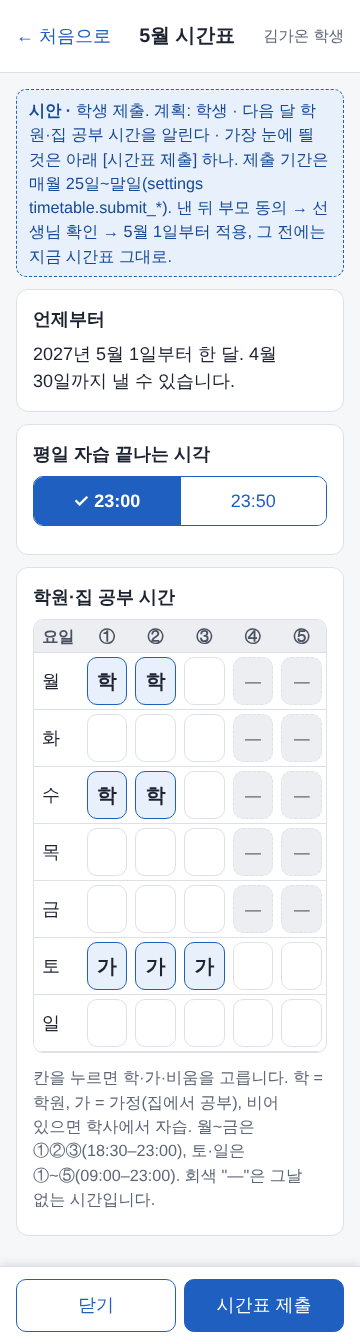
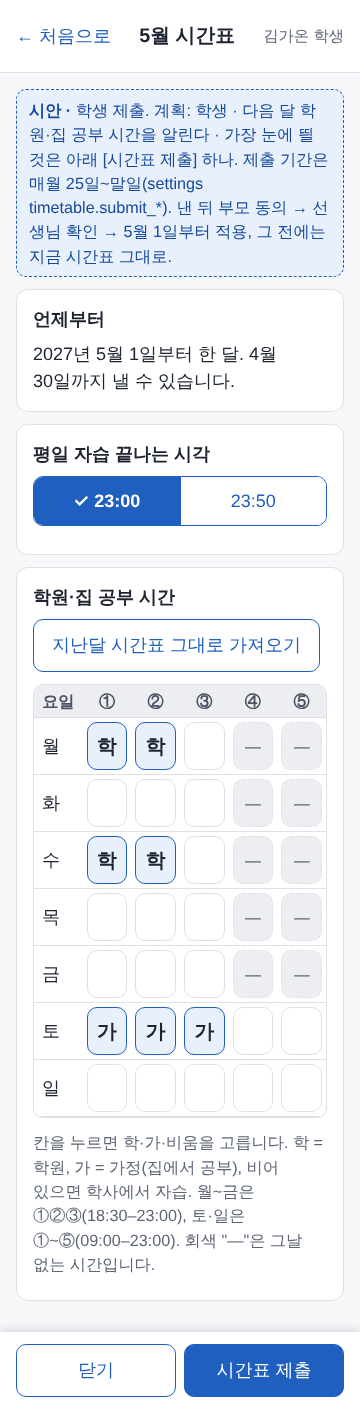
D13 보충: 시간표 가져오기·돌려보냄·학부모 동의하지 않음 시안 (#239)
Claude-Session: https://claude.ai/code/session_01By8Yaa8urwsSoHVw3FXUZa

diff --git a/tests/design/docs.test.js b/tests/design/docs.test.js
@@ -245,15 +245,15 @@ test('D13 7단계 시안(stage7-screens.js): 화면 이름이 stage7-screens.md 
   const src = css.readFile('design/preview/stage7-screens.js');
   const doc = css.readFile('docs/design/stage7-screens.md');
   const ids = [...src.matchAll(/^def\('([^']+)'/gm)].map((m) => m[1]);
-  assert.ok(ids.length >= 19, '시안 수 ' + ids.length);
+  assert.ok(ids.length >= 23, '시안 수 ' + ids.length);
   ids.forEach((id) => {
     assert.ok(doc.indexOf('`' + id + '`') >= 0, '`' + id + '` 가 문서에 없다');
     assert.ok(fs.existsSync(path.join(__dirname, '..', '..', 'docs', 'design', 'stage7-photos', id + '.png')), id + ' 사진이 없다');
   });
   const imgs = [...doc.matchAll(/!\[[^\]]*\]\((stage7-photos\/[^)]+)\)/g)].map((m) => m[1]);
-  assert.ok(imgs.length >= 19, '문서의 사진 수 ' + imgs.length);
+  assert.ok(imgs.length >= 23, '문서의 사진 수 ' + imgs.length);
   imgs.forEach((f) => assert.ok(fs.existsSync(path.join(__dirname, '..', '..', 'docs', 'design', f)), f + ' 파일이 없다'));
-  ['미정·가정', '처음 쓰는 사람', '상담은 날짜·교사만', '삭제가 아니라 취소', '번호를 쓴다', '`facility.write`', '`facility.report`', '규칙 8절', '확인 못 한 것'].forEach((t) => assert.ok(doc.indexOf(t) >= 0, t));
+  ['총괄 답', '지난달 시간표 그대로 가져오기', '돌려보낸 사람과 사유', '사유 한 줄', '미정·가정', '처음 쓰는 사람', '상담은 날짜·교사만', '삭제가 아니라 취소', '번호를 쓴다', '`facility.write`', '`facility.report`', '규칙 8절', '확인 못 한 것'].forEach((t) => assert.ok(doc.indexOf(t) >= 0, t));
   // 학생·학부모 시안 화면에는 전화번호·이메일·교사 메모 글자가 없다
   const studentParent = src.slice(src.indexOf('F14 학생 홈'), src.indexOf('F10 시설 사용 일지'));
   assert.ok(!/010-|@example|메모:|전화/.test(studentParent.replace(/\/\*[\s\S]*?\*\//g, '').replace(/note: '[^']*'/g, '')), '학생·학부모 시안에 전화·이메일·메모가 보인다');

diff --git a/docs/design/stage7-screens.md b/docs/design/stage7-screens.md
@@ -23,8 +23,12 @@
 | `facility-admin-total` | 시설 일지 누적표(학생 × 날짜) | 관리자 |
 | `timetable-student` | 시간표 내기 | 학생 |
 | `timetable-cell-sheet` | 시간표 칸 고르기 시트 | 학생 |
+| `timetable-import-confirm` | [지난달 시간표 그대로 가져오기] 확인 | 학생 |
+| `timetable-returned` | 돌려보내진 시간표 — 담당교사가 돌려보냄 | 학생 |
+| `timetable-returned-parent` | 돌려보내진 시간표 — 부모가 돌려보냄 | 학생 |
 | `timetable-submitted` | 낸 뒤 단계 | 학생 |
 | `timetable-parent` | 학부모 동의 | 학부모 |
+| `timetable-parent-decline` | 학부모 [동의하지 않습니다](사유 한 줄, 선택) | 학부모 |
 | `timetable-teacher-list` | 담당교사 목록(미제출·동의 기다림·확인 필요) | 담당교사 |
 | `timetable-teacher-confirm` | 담당교사 확인 시트 | 담당교사 |
 
@@ -100,7 +104,10 @@
 ![시간표 내기](stage7-photos/timetable-student.png) ![칸 고르기](stage7-photos/timetable-cell-sheet.png)
 
 - 카드 **언제부터**("2027년 5월 1일부터 한 달. 4월 30일까지 낼 수 있습니다."), 카드 **평일 자습 끝나는 시각**(`UI.segmented` 23:00 / 23:50), 카드 **학원·집 공부 시간**: **요일(월~일) × 시간(①~⑤) 표**(`table.data.rg` + `.rg-cell`, 칸 48px). 칸이 비어 있으면 학사에서 자습, **학**(학원, 파랑)·**가**(가정, 보라) 칸은 `.has`로 보이고 글자(학·가)로도 알린다. 월~금은 ①②③(18:30–23:00)만 있고 ④⑤는 회색 점선 "—"(`.off`), 토·일은 ①~⑤(09:00–23:00).
-- 칸을 누르면 `UI.bottomSheet` "월요일 ① (18:30–20:00)": 칩 [학 (학원)] [가 (집)] [비움 (학사 자습)] → [이 칸에 적용]. 한 번에 한 칸씩(여러 칸 한꺼번에는 만들지 않는다 — 미정 5번).
+- **[지난달 시간표 그대로 가져오기]**(결정): 표 카드 맨 위 보조 버튼(`.btn.secondary`) 하나. 누르면 확인 시트 `timetable-import-confirm` — "지난달 시간표를 가져옵니다" + 가져올 내용 한 줄 + "지금 표에 적은 것은 이 시간표로 바뀝니다." + "가져온 뒤에도 칸을 눌러 고칠 수 있고, [시간표 제출]을 눌러야 냅니다." → [가져오기]. 지난달 제출이 없으면 이 버튼을 그리지 않는다.
+
+![가져오기 확인](stage7-photos/timetable-import-confirm.png)
+- 칸을 누르면 `UI.bottomSheet` "월요일 ① (18:30–20:00)": 칩 [학 (학원)] [가 (집)] [비움 (학사 자습)] → [이 칸에 적용]. 한 번에 한 칸씩 고른다. 여러 칸을 한꺼번에 고르는 입력은 만들지 않고 위 [지난달 시간표 그대로 가져오기]로 대신한다(결정).
 - 제출 기간(매월 25일~말일, settings `timetable.submit_*`)이 아니면 이 화면은 "지금은 기간이 아닙니다"(학생 홈 맨 아래 안내와 같은 말).
 
 ### 4-2. 낸 뒤 단계 / 학부모 동의 / 교사 확인
@@ -108,11 +115,16 @@
 ![낸 뒤](stage7-photos/timetable-submitted.png)
 
 - **단계 4개는 순서가 있으므로 번호를 쓴다**(규칙 8절 "번호는 순서가 있을 때만"): 1 내가 제출(완료) → 2 부모님 동의(기다리는 중) → 3 선생님 확인(아직) → 4 5월 1일부터 적용(아직). 알약은 `.pill.s-confirmed`(완료)·`.s-requested`(기다리는 중)·`.mute`(아직). 맨 위 안내 `.notice.info` "확정되기 전에는 지금 시간표가 그대로 쓰입니다."
-- 낸 시간표는 같은 표(읽기만)로 보인다. 돌려보내진 경우(교사 [돌려보내기]·부모 [동의하지 않습니다])는 이 자리에 사유와 [다시 내기]가 나온다(이 시안에는 그리지 않았다 — 미정 6번).
+- 낸 시간표는 같은 표(읽기만)로 보인다. **돌려보내진 시간표**(결정): 교사 [돌려보내기]든 부모 [동의하지 않습니다]든 학생 화면 **맨 위에 돌려보낸 사람과 사유**(`.notice.warn` 하나, "담당 박선생님이 시간표를 돌려보냈습니다. 사유: …" / "부모님이 …"), 그 아래에 고칠 수 있는 표, 아래 바 [고쳐서 다시 내기]. 다시 내면 부모 동의부터 다시 시작한다(R23).
+
+![교사가 돌려보냄](stage7-photos/timetable-returned.png) ![부모가 돌려보냄](stage7-photos/timetable-returned-parent.png)
 
 ![학부모 동의](stage7-photos/timetable-parent.png)
 
-- `timetable-parent`: 자녀 탭(여럿이면) → "김가온 학생 · 5월 시간표"(설명 한두 줄) → 종료 시각 → 같은 표(읽기만). 아래 바: 보조 [동의하지 않습니다](누르면 사유를 받는 `UI.confirmWithReason`) · 주 **[동의합니다]**. 동의하면 담당교사에게 "확인 필요"로 간다.
+- `timetable-parent`: 자녀 탭(여럿이면) → "김가온 학생 · 5월 시간표"(설명 한두 줄) → 종료 시각 → 같은 표(읽기만). 아래 바: 보조 [동의하지 않습니다] · 주 **[동의합니다]**. 동의하면 담당교사에게 "확인 필요"로 간다.
+- **[동의하지 않습니다]**(결정): 사유 **한 줄, 선택**을 받는 `UI.bottomSheet`(`timetable-parent-decline`) — "학생에게 시간표가 \"돌려보냄\"으로 돌아갑니다. 학생이 고쳐서 다시 내면 다시 동의를 부탁드립니다." 버튼 [돌아가기] · [학생에게 돌려보내기]. 사유를 적지 않아도 된다(`UI.confirmWithReason`은 사유가 필수라 쓰지 않는다).
+
+![동의하지 않습니다](stage7-photos/timetable-parent-decline.png)
 
 ![교사 목록](stage7-photos/timetable-teacher-list.png) ![교사 확인](stage7-photos/timetable-teacher-confirm.png)
 
@@ -157,15 +169,21 @@
 | 강한 색 상자가 한 화면에 둘 이상 | 없음(퇴실 대상 경고는 화면당 하나) |
 | 큰 글씨(기기 글자 150%) | 19화면 모두 360px에서 가로 스크롤·잘림 없음(`html{font-size:27px}`로 확인, 실제 기기의 큰 글씨 설정과는 다를 수 있다) |
 
-## 8. 미정·가정·확인 못 한 것 (코딩이 임의로 정하지 않는다)
+## 8. 결정됨 · 미정·가정·확인 못 한 것
 
-1. **학생에게 OUT 항목 이름을 보이는지.** 시안은 날짜와 항목 이름을 보인다(입력한 교사·메모는 숨김). 항목에 따라 민감한 이름이 있으면 날짜·건수만 보이는 것으로 줄일 수 있다(총괄 판단).
-2. **학부모에게 OUT 항목 이름을 보이는지.** 학생과 같게 그렸다(날짜·항목). 같은 질문.
-3. **시설 일지 취소 사유**를 받지 않았다(학생이 쓴 본인 기록이라 확인만). 사유를 받으려면 `UI.confirmWithReason`으로 바꾼다.
-4. 관리자 누적표의 칸을 눌렀을 때 펼침(그날 기록)과 시설별 보기는 시안에 없다.
-5. **시간표 칸 입력은 한 칸씩**이다. "월~금 ①② 모두 학원" 같은 일괄 입력(요일 줄 누르기)은 만들지 않았다 — 한 달 12칸 이상이라 불편하면 코딩이 아니라 디자인에 요청.
-6. 돌려보내진 시간표(교사·학부모가 돌려보냄)의 학생 화면, 제출 기간이 아닐 때의 학생 화면, 마감 지난 뒤 미제출 학생 화면은 그리지 않았다. 말투만 정한다: 사유를 그대로 보이고 [다시 내기] 한 개.
-7. 학부모 [동의하지 않습니다]가 시간표를 학생에게 돌려보내는지, 교사에게 알리고 끝나는지(R23 규칙).
+**총괄 답(2026-11-19)으로 정해진 것** — 코딩은 아래대로 만든다:
+
+1. 학생·학부모에게 **OUT 항목 이름은 보인다**(입력한 교사·메모는 없다).
+2. **시설 일지 취소는 사유 없이 확인 시트만**(`facility-cancel`).
+3. 시간표 일괄 입력은 **[지난달 시간표 그대로 가져오기] 버튼 하나**, 가져온 뒤 고친다(`timetable-import-confirm`).
+4. **돌려보내진 시간표**: 맨 위에 돌려보낸 사람·사유, 아래에서 고쳐서 다시 낸다(`timetable-returned`·`timetable-returned-parent`).
+5. 학부모 **[동의하지 않습니다]**: 사유 한 줄(선택) → 학생에게 "돌려보냄"으로 돌아간다(규칙 세션 R23에 같이 보냄, `timetable-parent-decline`).
+
+**아직 정해지지 않았거나 가정한 것:**
+
+6. 관리자 누적표의 칸을 눌렀을 때 펼침(그날 기록)과 시설별 보기는 시안에 없다.
+7. 제출 기간이 아닐 때의 학생 화면, 마감 지난 뒤 미제출 학생 화면은 그리지 않았다(말투만: 이유와 다음 기간을 한 줄로).
 8. **학부모 홈의 "시간표 동의" 한 칸**은 동의할 시간표가 있을 때만 나온다(없으면 생략).
 9. 시설 목록(`facility.names`) 기본값은 시안의 예시(특강실·원형테이블·소회의실·기타)이며 실제 이름은 관리자가 정한다.
-10. **확인 못 한 것:** 실제 Apps Script·실제 휴대폰에서 돌려 본 것이 아니다(정적 시안). `input[type=time]`의 표시 방식(오전·오후)은 기기마다 다르다. 학부모 로그인 방식(0단계 진단)이 정해지기 전이라 첫 화면(`parent-home-nolink`)의 문구는 바뀔 수 있다.
+10. 다시 낸 시간표가 부모 동의부터 다시 시작하는지(R23 확인 필요), 돌려보낸 뒤 학생이 마감 안에 못 고치면 어떻게 되는지(R23).
+11. **확인 못 한 것:** 실제 Apps Script·실제 휴대폰에서 돌려 본 것이 아니다(정적 시안). `input[type=time]`의 표시 방식(오전·오후)은 기기마다 다르다. 학부모 로그인 방식(0단계 진단)이 정해지기 전이라 첫 화면(`parent-home-nolink`)의 문구는 바뀔 수 있다.
